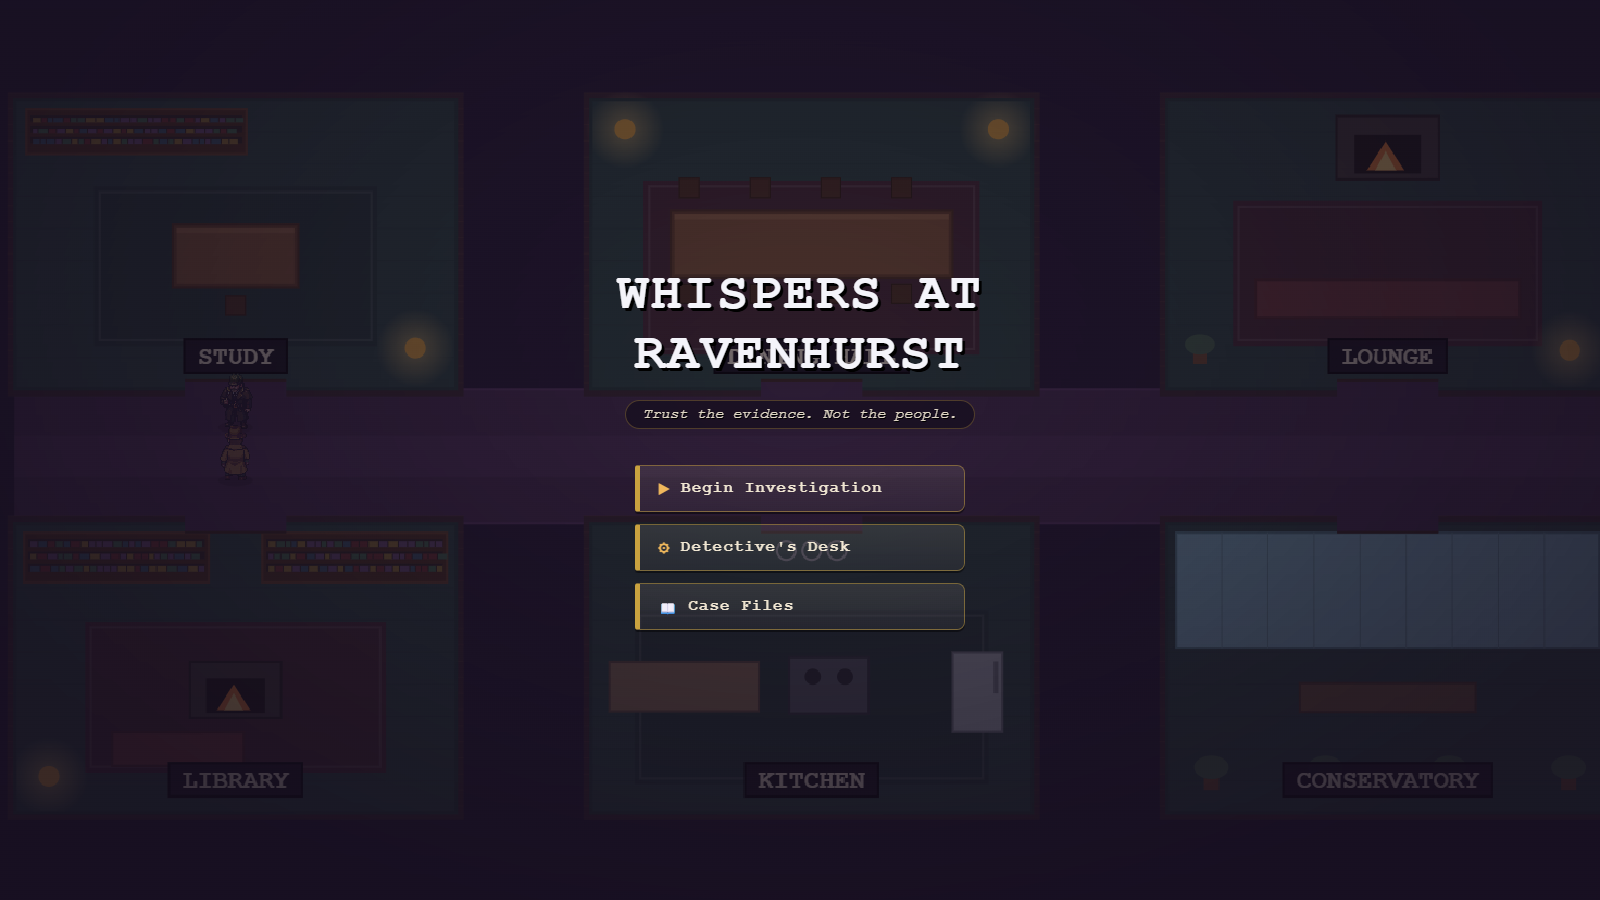
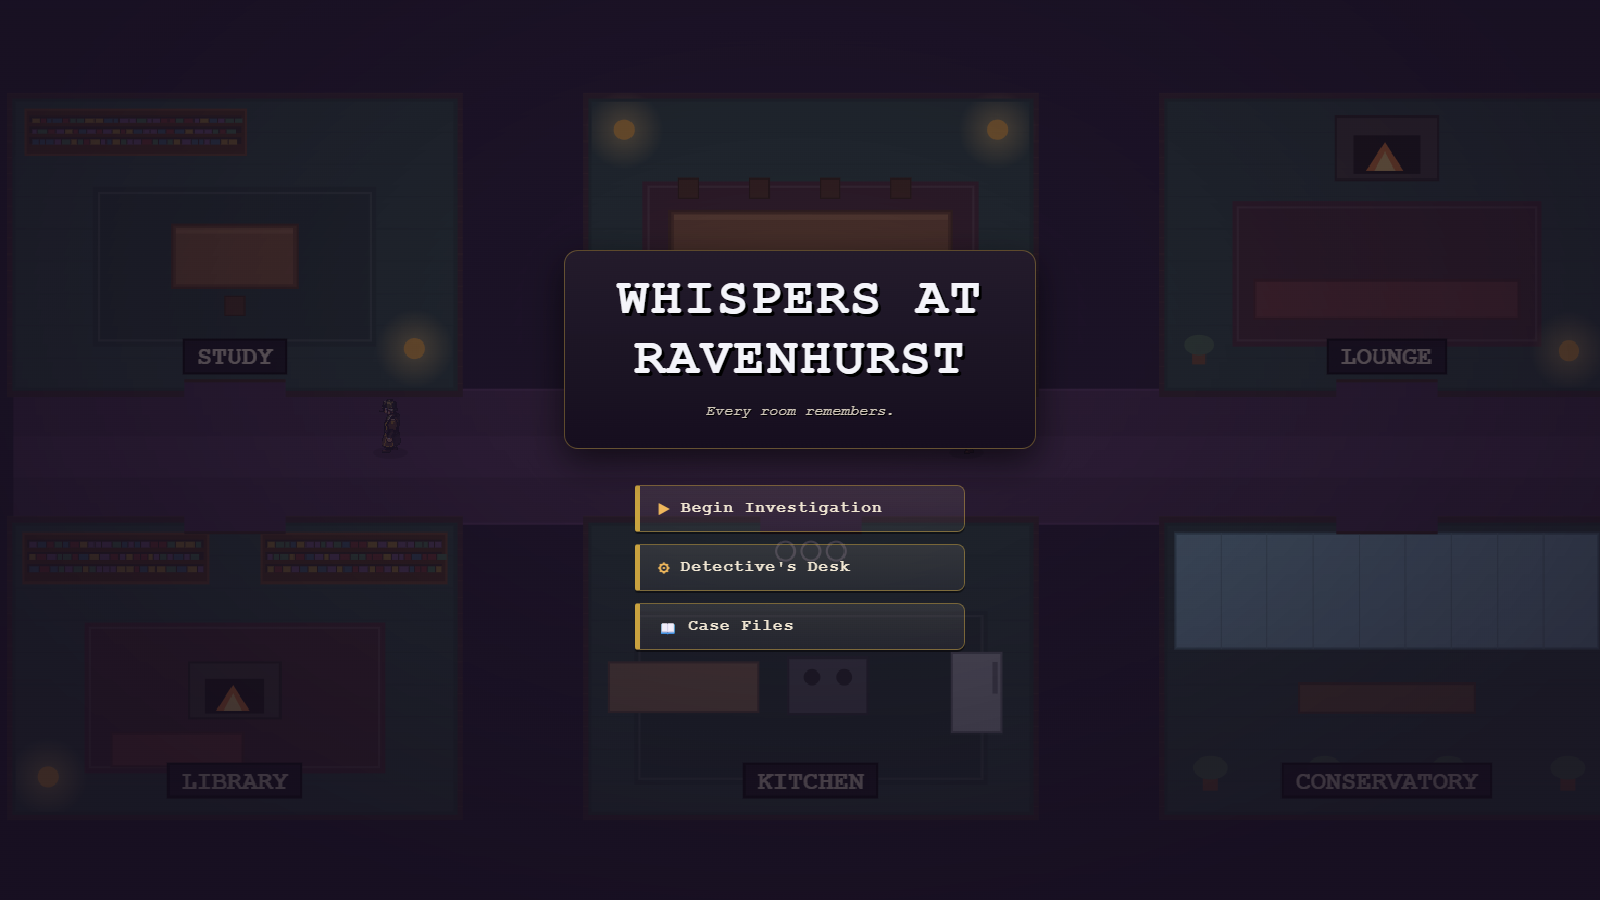
Fix (retry): solid backdrop panel behind title+tagline guarantees no overlap with board elements at any drift position
The earlier tagline-pill fix only touched the main menu's .mm-tagline; the
overlap in the playtest was actually the LOBBY's .lobby-tagline ("A two-detective
race to the truth." over DINING HALL) — a separate element on a separate screen.

New approach — a shared .mm-titlecard wrapping the title + tagline block on BOTH
pre-game screens (main menu + lobby):
- Fully OPAQUE base (#181022) + a subtle sheen gradient and gold border, so
  nothing from the animated board (room labels, furniture, lighting, ghosts) can
  bleed through — at any camera-drift position or viewport width.
- Sits above the canvas backdrop, below the lobby form card.
- Generous padding so it reads as an intentional parchment title card.
- Reverted the previous per-tagline pill (the card supersedes it).

Verified with screenshots: menu at two different drift positions (~13s apart)
and the lobby Join screen — no room label visible through the title/tagline zone
in any. menu-test.mjs (47 checks) still green.

diff --git a/client/src/index.css b/client/src/index.css
@@ -719,15 +719,33 @@ body {
   animation: mm-caret 0.8s steps(2, start) infinite;
 }
 @keyframes mm-caret { 50% { opacity: 0; } }
-/* Semi-opaque pill anchored to the text itself: it always covers exactly
-   whatever room label sits behind the tagline, at any viewport width (so the
-   overlap can't just reappear over a different label at another size). */
 .mm-tagline {
   margin: 0; font-style: italic; font-size: 15px;
-  color: rgba(240,230,210,0.92); text-shadow: 1px 1px 0 #000;
-  display: inline-block; padding: 5px 16px; border-radius: 999px;
-  background: rgba(21,14,30,0.74); border: 1px solid rgba(201,162,63,0.3);
+  color: rgba(240,230,210,0.85); text-shadow: 1px 1px 0 #000;
 }
+
+/* Solid title card behind the WHISPERS AT RAVENHURST + tagline block on BOTH
+   pre-game screens (main menu AND lobby). Near-opaque, so NOTHING from the
+   animated board (room labels, furniture, lighting pulses, ghosts) can bleed
+   through at ANY drift position or viewport width — it sits above the canvas
+   but below the lobby form card. Generous padding so it reads as an intentional
+   parchment title card, not a patch. */
+.mm-titlecard {
+  display: inline-flex; flex-direction: column; align-items: center; gap: 8px;
+  max-width: 92vw; padding: 24px 52px 28px; z-index: 2;
+  /* FULLY OPAQUE base (#181022) → guaranteed zero bleed-through; the gradient on
+     top is just a subtle sheen so it reads as a title card, not a flat box. */
+  background:
+    linear-gradient(rgba(240,230,210,0.05), rgba(0,0,0,0.10)),
+    #181022;
+  border: 1px solid rgba(201,162,63,0.4); border-radius: 14px;
+  box-shadow: 0 12px 36px rgba(0,0,0,0.6);
+}
+/* Inside the card the title/tagline own no outer margins (the card's gap spaces
+   them); the lobby tagline's default negative margin would misalign otherwise. */
+.mm-titlecard .lobby-title,
+.mm-titlecard .lobby-tagline,
+.mm-titlecard .mm-tagline { margin: 0; }
 
 /* Case-file tab buttons */
 .mm-actions { display: flex; flex-direction: column; gap: 12px; margin-top: 26px; width: min(330px, 84vw); }

diff --git a/client/src/components/MainMenu.jsx b/client/src/components/MainMenu.jsx
@@ -69,11 +69,14 @@ export default function MainMenu({ onBegin, soundOn, onToggleSound }) {
   return (
     <div className="main-menu">
       <div className={`mm-content ${leaving ? "leaving" : ""}`}>
-        <div className="lobby-title mm-title" aria-label={`${TITLE_1} ${TITLE_2}`}>
-          <span>{line1}{typing && chars <= TITLE_1.length && <span className="mm-caret" />}</span>
-          <span>{line2}{typing && chars > TITLE_1.length && <span className="mm-caret" />}</span>
+        {/* Solid title card: nothing from the animated board can bleed through */}
+        <div className="mm-titlecard">
+          <div className="lobby-title mm-title" aria-label={`${TITLE_1} ${TITLE_2}`}>
+            <span>{line1}{typing && chars <= TITLE_1.length && <span className="mm-caret" />}</span>
+            <span>{line2}{typing && chars > TITLE_1.length && <span className="mm-caret" />}</span>
+          </div>
+          <p className="mm-tagline">{tagline}</p>
         </div>
-        <p className="mm-tagline">{tagline}</p>
 
         <div className="mm-actions">
           <button className="mm-btn" onMouseEnter={() => playNotebookOpen()} onClick={begin}>

diff --git a/client/src/components/Lobby.jsx b/client/src/components/Lobby.jsx
@@ -47,11 +47,15 @@ export default function Lobby({ onError, onBack }) {
         </button>
       )}
 
-      <div className="lobby-title">
-        <span>WHISPERS AT</span>
-        <span>RAVENHURST</span>
+      {/* Solid title card (shared with the main menu) so the title + tagline are
+          always readable over the animated backdrop — no room label bleeds through. */}
+      <div className="mm-titlecard">
+        <div className="lobby-title">
+          <span>WHISPERS AT</span>
+          <span>RAVENHURST</span>
+        </div>
+        <p className="lobby-tagline">A two-detective race to the truth.</p>
       </div>
-      <p className="lobby-tagline">A two-detective race to the truth.</p>
 
       <div className="lobby-card">
         {mode === "home" && (

diff --git a/CLAUDE.md b/CLAUDE.md
@@ -22,6 +22,15 @@ per-item breakdown.
 
 ## Recent Work (Last Session)
 
+- **Title/tagline overlap — guaranteed fix (retry).** The earlier tagline-pill fix
+  only touched the main menu's `.mm-tagline`; the reported overlap was actually the
+  **lobby's** `.lobby-tagline` ("A two-detective race to the truth." over DINING HALL),
+  a separate element. Replaced the approach with a shared **`.mm-titlecard`** — a
+  **fully-opaque** panel (`#181022` base + a subtle sheen gradient, gold border) wrapping
+  the title + tagline block on BOTH pre-game screens (menu + lobby), above the canvas /
+  below the form card. Nothing from the animated board can bleed through at any drift
+  position or width. Verified with screenshots at two drift positions + the lobby Join
+  screen; `menu-test.mjs` (47) still green.
 - **2.7 bug-fix pass (5 playtest bugs).** (1) **Reliable click sound** — `fire()` in
   `sound.js` now plays a short-lived **clone** per shot (a single `<audio>` can't
   retrigger mid-play → the "sometimes silent" clicks); clones are cached, referenced
